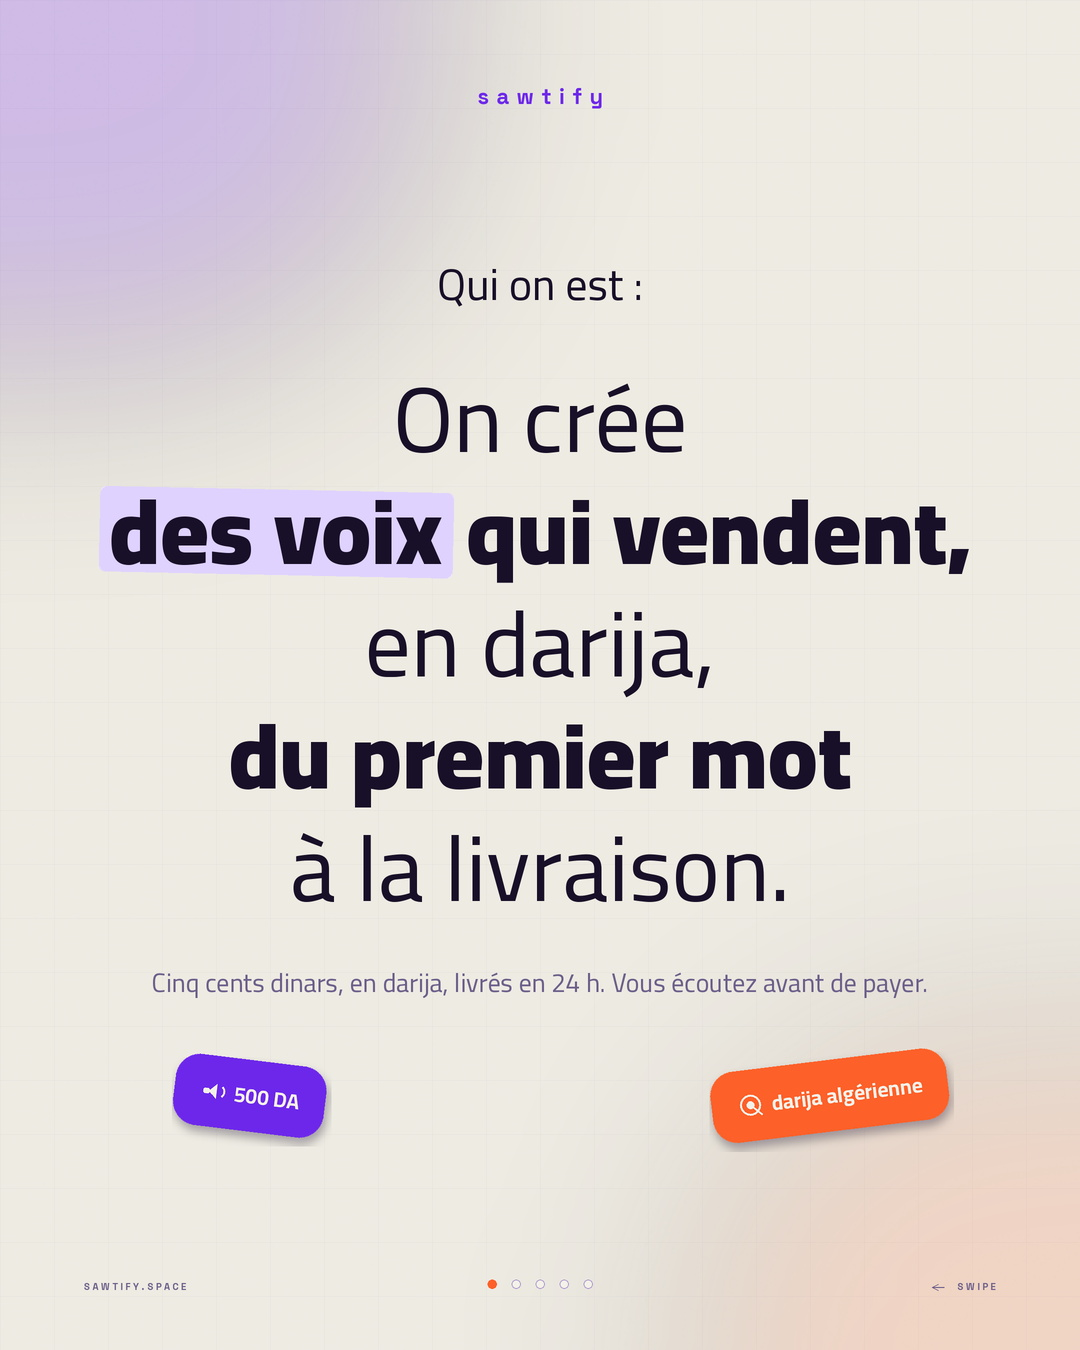
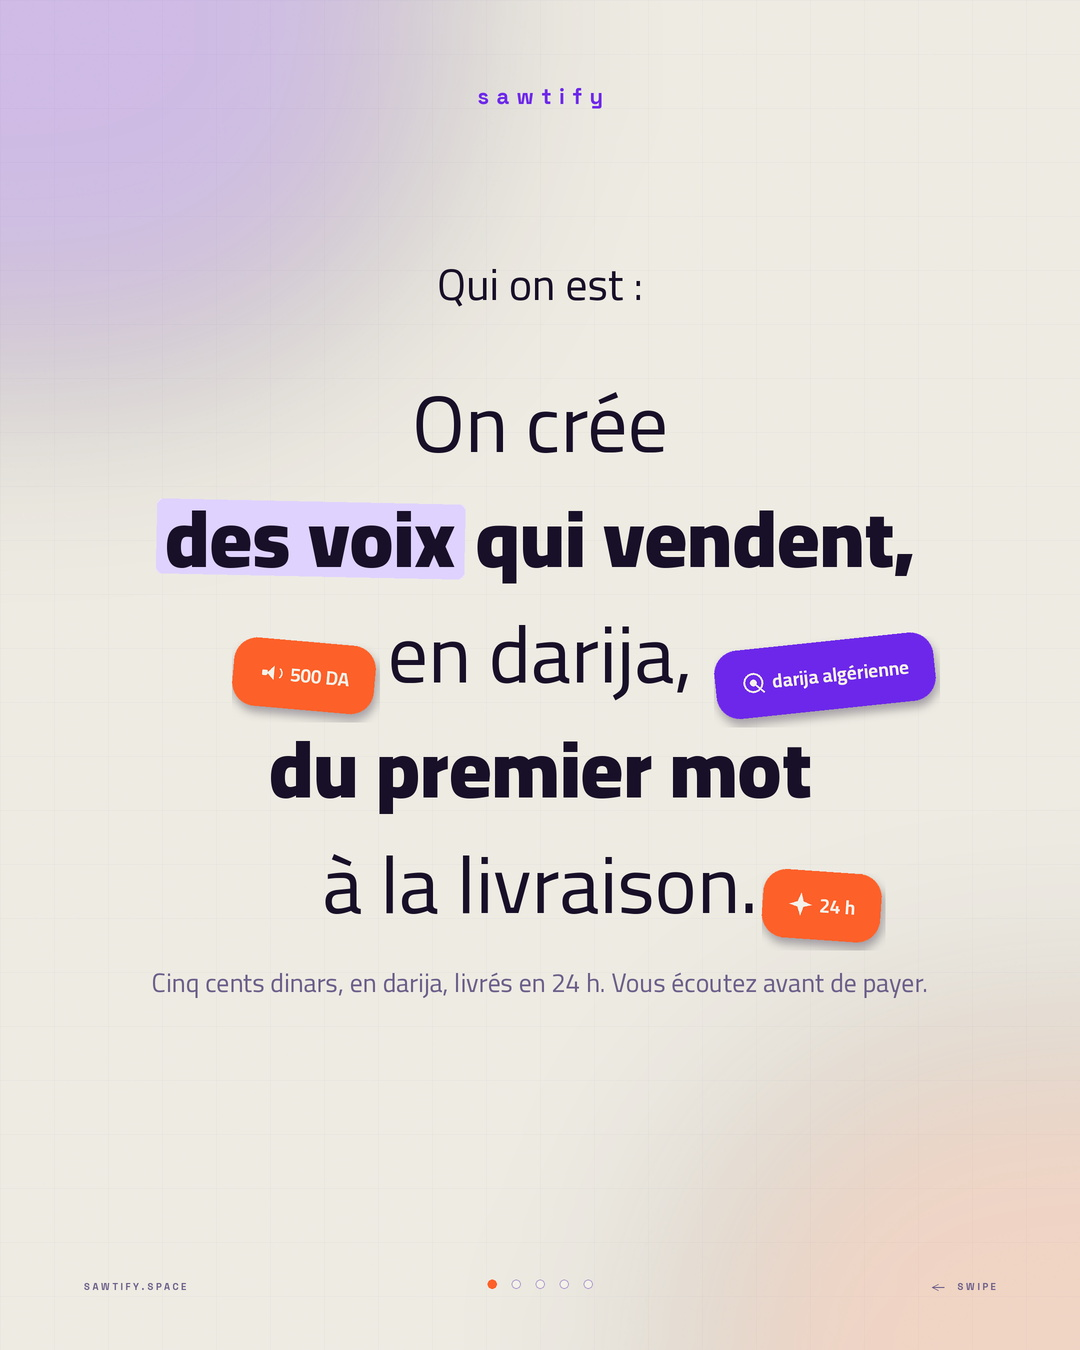
feat(lettre): pilules posees devant le texte (style Who We Are) + interligne aeree

Changed region(s): [[0.0917, 0.28, 0.9167, 0.7156], [0.6417, 0.7778, 0.8861, 0.8711], [0.1528, 0.7778, 0.3056, 0.8711]]

diff --git a/marketing/instagram/lettre.py b/marketing/instagram/lettre.py
@@ -379,9 +379,9 @@ def build(spec, seed, rtl=True):
         size -= 2
 
     # titre ancré par le haut : toutes les slides démarrent à la même hauteur
-    while size > 56 and TITLE_TOP + (len(lines_n) - 1) * size * 1.22 > 902:
+    while size > 56 and TITLE_TOP + (len(lines_n) - 1) * size * 1.44 > 918:
         size -= 2
-    lead = size * spec.get("lead", 1.22)
+    lead = size * spec.get("lead", 1.44)
     lines = [list(map(tuple, toks)) for toks in lines_n]
     gaps = [size * 0.26] * len(lines)
     if rtl and spec.get("justify", True) and len(lines) > 1:
@@ -508,7 +508,7 @@ def cta(p):
 DZ = {
     "id": "dz", "n": 5, "seed": 11, "rtl": True,
     "s1": {
-        "kicker": "شكون احنا:", "size": 108,
+        "kicker": "شكون احنا:", "size": 88, "justify": False,
         "lines": [
             [("نصنعو", "r", None), ("أصوات", "b", "v"), ("تبيع،", "b", None)],
             [("بالدارجة", "r", None), ("تاع", "b", None),
@@ -517,43 +517,47 @@ DZ = {
              ("الآخر.", "r", None)],
         ],
         "stickers": [
-            dict(text="500 دج", x=250, y=STICK_Y, rot=-7, fill=VIO,
-                 icon="sound"),
-            dict(text="دارجة بلادنا", x=830, y=STICK_Y, rot=7,
-                 fill=ORANGE, icon="target"),
+            dict(text="دارجة بلادنا", x=140, y=515, rot=6, fill=VIO,
+                 icon="target", size=19),
+            dict(text="500 دج", x=925, y=515, rot=-5, fill=ORANGE,
+                 icon="sound", size=19),
+            dict(text="24 ساعة", x=254, y=760, rot=-4, fill=ORANGE,
+                 icon="spark", size=19),
         ],
         "body": "خمس مية دج، بالدارجة، و تسليم في 24 ساعة. تسمعها قبل ما تخلّص.",
         "marks": [],
     },
     "s2": {
-        "kicker": "علاه هكّاك:", "size": 108,
+        "kicker": "علاه هكّاك:", "size": 88, "justify": False,
         "lines": [
             [("دماغك", "b", None), ("ياخذ", "r", None)],
             [("أول", "b", "o"), ("سوم", "b", None), ("و", "r", None)],
             [("يوقف", "b", None), ("عليه.", "r", None)],
         ],
         "stickers": [
-            dict(text="المرجع", x=830, y=STICK_Y, rot=6, fill=ORANGE,
-                 icon="target"),
+            dict(text="المرجع", x=813, y=515, rot=6, fill=ORANGE,
+                 icon="target", size=19),
+            dict(text="الأنكوراج", x=242, y=642, rot=-6, fill=VIO,
+                 icon="sound", size=19),
         ],
         "marks": [],
         "body": "كل سوم بعدو يتقاس بيه، ماشي بالسوق. بدّل بلاصة السوم، "
                 "ماشي السوم.",
     },
     "s3": {
-        "kicker": "واش تدير:", "size": 108,
+        "kicker": "واش تدير:", "size": 88, "justify": False,
         "lines": [
             [("ثلاثة", "b", "v"), ("حوايج،", "r", None)],
             [("و", "r", None), ("السوم", "b", "o"), ("يولي", "r", None)],
             [("يهدر", "b", None), ("وحدو.", "r", None)],
         ],
         "stickers": [
-            dict(text="بيّن المرجع", num="01", x=250, y=STICK_Y, rot=-5,
-                 fill=ORANGE, icon="target", size=19),
-            dict(text="فسّر السوم", num="02", x=540, y=STICK_Y, rot=3,
-                 fill=VIO, icon="sound", size=19),
-            dict(text="قارن بوضوح", num="03", x=830, y=STICK_Y, rot=-4,
-                 fill=ORANGE, icon="spark", size=19),
+            dict(text="بيّن المرجع", x=855, y=515, rot=6, fill=ORANGE,
+                 icon="target", size=19),
+            dict(text="فسّر السوم", x=203, y=642, rot=-6, fill=VIO,
+                 icon="sound", size=19),
+            dict(text="قارن بوضوح", x=830, y=760, rot=-4, fill=ORANGE,
+                 icon="spark", size=19),
         ],
         "body": "خدّمهم بالترتيب، ما تخلطش ما بيناتهم: المرجع، التفسير، و من "
                 "بعد المقارنة.",
@@ -568,14 +572,16 @@ DZ = {
         "note": "3 000 دج سوم السوق، 500 دج تاعنا، و الفرق يبان من الأول.",
     },
     "s5": {
-        "kicker": "و من بعد؟", "size": 108,
+        "kicker": "و من بعد؟", "size": 88, "justify": False,
         "lines": [
             [("الترتيب", "b", "v"), ("يبيع", "r", None), ("أكثر", "b", None)],
             [("من", "r", None), ("أي", "r", None), ("تخفيض.", "r", None)],
         ],
         "stickers": [
-            dict(text="ما تنقصش السوم", x=268, y=700, rot=6, fill=ORANGE,
-                 icon="target"),
+            dict(text="ما تنقصش السوم", x=806, y=676, rot=6, fill=ORANGE,
+                 icon="target", size=19),
+            dict(text="الترتيب هو الحل", x=250, y=642, rot=-6, fill=VIO,
+                 icon="spark", size=19),
         ],
         "marks": [],
     },
@@ -596,10 +602,12 @@ FR = {
             [("à la livraison.", "r", None)],
         ],
         "stickers": [
-            dict(text="500 DA", x=250, y=STICK_Y, rot=-7, fill=VIO,
-                 icon="sound"),
-            dict(text="darija algérienne", x=830, y=STICK_Y, rot=7,
-                 fill=ORANGE, icon="target"),
+            dict(text="darija algérienne", x=825, y=676, rot=6, fill=VIO,
+                 icon="target", size=19),
+            dict(text="500 DA", x=304, y=676, rot=-5, fill=ORANGE,
+                 icon="sound", size=19),
+            dict(text="24 h", x=822, y=906, rot=-4, fill=ORANGE,
+                 icon="spark", size=19),
         ],
         "body": "Cinq cents dinars, en darija, livrés en 24 h. Vous écoutez "
                 "avant de payer.",
@@ -613,8 +621,10 @@ FR = {
             [("chiffre.", "r", None)],
         ],
         "stickers": [
-            dict(text="ancrage", x=830, y=STICK_Y, rot=6, fill=ORANGE,
-                 icon="target"),
+            dict(text="ancrage", x=762, y=710, rot=6, fill=ORANGE,
+                 icon="target", size=19),
+            dict(text="la référence", x=282, y=710, rot=-6, fill=VIO,
+                 icon="sound", size=19),
         ],
         "marks": [],
         "body": "Chaque prix se juge par rapport au précédent, pas par rapport "
@@ -628,12 +638,12 @@ FR = {
             [("devient", "b", None), ("évident.", "r", None)],
         ],
         "stickers": [
-            dict(text="la réf.", num="01", x=250, y=STICK_Y, rot=-5,
-                 fill=ORANGE, icon="target", size=18),
-            dict(text="le détail", num="02", x=540, y=STICK_Y, rot=3,
-                 fill=VIO, icon="sound", size=18),
-            dict(text="l’écart", num="03", x=830, y=STICK_Y, rot=-4,
-                 fill=ORANGE, icon="spark", size=18),
+            dict(text="la réf.", x=777, y=578, rot=6, fill=ORANGE,
+                 icon="target", size=19),
+            dict(text="le détail", x=277, y=578, rot=-6, fill=VIO,
+                 icon="sound", size=19),
+            dict(text="l’écart", x=936, y=710, rot=-4, fill=ORANGE,
+                 icon="spark", size=19),
         ],
         "body": "Dans cet ordre, sans mélanger : la référence, l'explication, "
                 "puis la comparaison.",
@@ -655,8 +665,10 @@ FR = {
             [("qu’une remise.", "r", None)],
         ],
         "stickers": [
-            dict(text="ne baissez pas le prix", x=268, y=810, rot=-6,
-                 fill=ORANGE, icon="target", size=18),
+            dict(text="ne baissez pas le prix", x=296, y=578, rot=6, fill=ORANGE,
+                 icon="target", size=19),
+            dict(text="l’ordre gagne", x=748, y=578, rot=-6, fill=VIO,
+                 icon="spark", size=19),
         ],
         "marks": [],
     },
